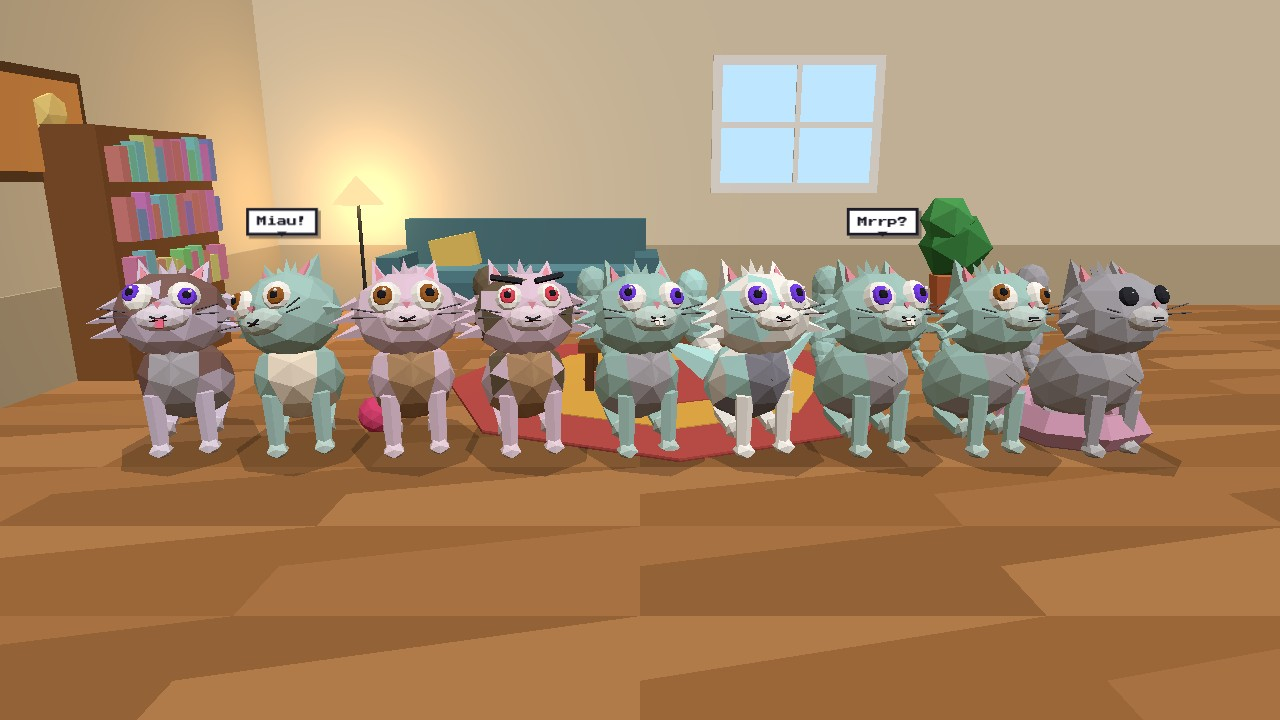
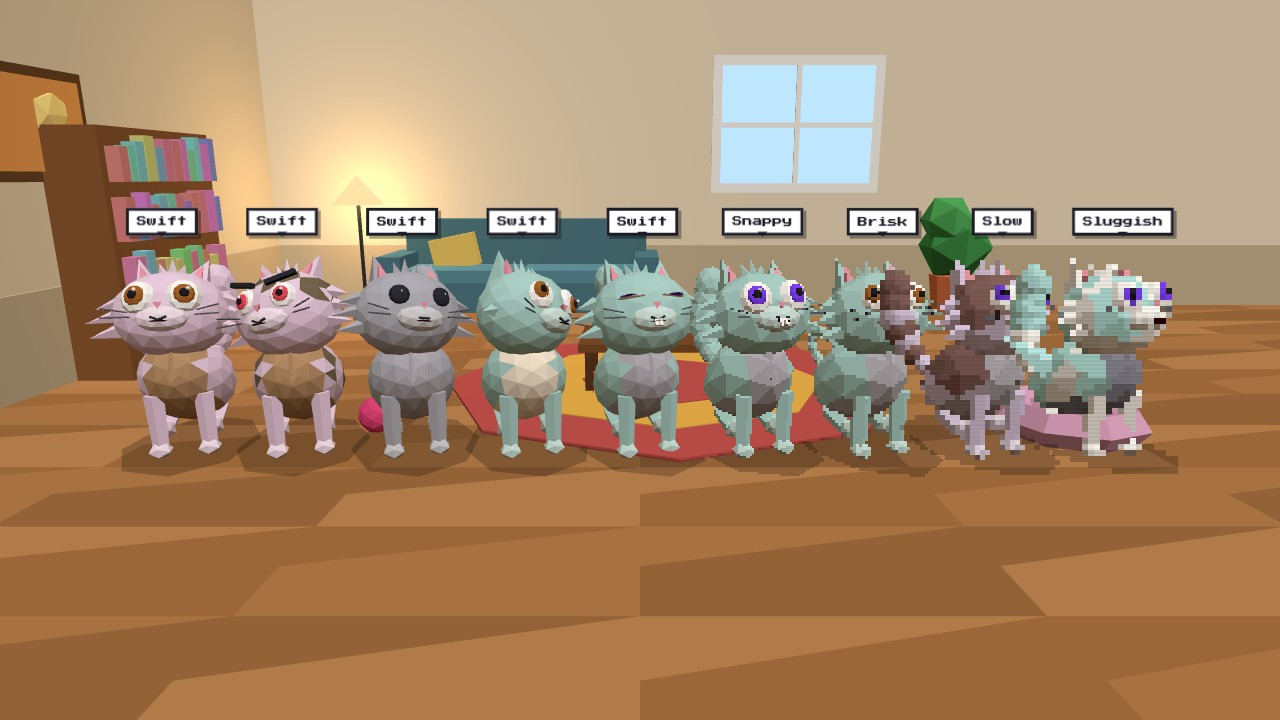
Render each kitty by its breeding cooldown
Fast-cooldown kitties render at native resolution with MSAA and smoother
geometry. Slower tiers render into 1/N low-res targets (2x..8x) composited
through a glitch shader (tearing, RGB split, flicker, scanlines), walk
slower, and animate in stop-motion. A depth-only scene pass per tier keeps
furniture occlusion. The scene now renders at full resolution, so the
Pixels toggle is gone. README documents the cooldown settings.

diff --git a/src/main.js b/src/main.js
@@ -11,11 +11,16 @@ const store = {
   set(k, v) { try { localStorage.setItem(k, v); } catch { /* private mode */ } },
 };
 
-// --- renderer: drawn at 1/pixel resolution and upscaled for the retro look --
+// --- renderer --------------------------------------------------------------
+// The scene and fast kitties are drawn at full resolution. Slower kitties
+// (by CryptoKitties cooldown) are drawn into low-res targets, one per pixel
+// size, and composited on top with a glitch shader. Each target first gets a
+// depth-only pass of the scene so furniture still hides cats behind it.
 
 const canvas = $('#view');
-const renderer = new THREE.WebGLRenderer({ canvas, antialias: false });
-renderer.setPixelRatio(1);
+const renderer = new THREE.WebGLRenderer({ canvas, antialias: true });
+renderer.setPixelRatio(Math.min(devicePixelRatio, 2));
+renderer.autoClear = false;
 const scene = new THREE.Scene();
 const camera = new THREE.PerspectiveCamera(50, 1, 0.1, 200);
 const controls = new OrbitControls(camera, canvas);
@@ -24,14 +29,92 @@ controls.maxPolarAngle = Math.PI * 0.47;
 controls.minDistance = 3;
 controls.maxDistance = 30;
 
-let pixel = Number(store.get('pixel')) || 3;
+const tierTargets = new Map(); // pixel size -> WebGLRenderTarget
+const tierSize = (px) => [Math.max(1, Math.floor(innerWidth / px)), Math.max(1, Math.floor(innerHeight / px))];
+function tierTarget(px) {
+  if (!tierTargets.has(px)) {
+    tierTargets.set(px, new THREE.WebGLRenderTarget(...tierSize(px), {
+      minFilter: THREE.NearestFilter, magFilter: THREE.NearestFilter,
+    }));
+  }
+  return tierTargets.get(px);
+}
+
 function resize() {
-  renderer.setSize(Math.max(1, Math.floor(innerWidth / pixel)), Math.max(1, Math.floor(innerHeight / pixel)), false);
+  renderer.setSize(innerWidth, innerHeight, false);
   camera.aspect = innerWidth / innerHeight;
   camera.updateProjectionMatrix();
+  for (const [px, rt] of tierTargets) rt.setSize(...tierSize(px));
 }
 addEventListener('resize', resize);
 resize();
+
+const glitchMat = new THREE.ShaderMaterial({
+  uniforms: { map: { value: null }, time: { value: 0 }, glitch: { value: 0 }, res: { value: new THREE.Vector2() } },
+  vertexShader: 'varying vec2 vUv; void main() { vUv = uv; gl_Position = vec4(position.xy, 0.0, 1.0); }',
+  fragmentShader: `
+    uniform sampler2D map; uniform float time, glitch; uniform vec2 res; varying vec2 vUv;
+    float h(float n) { return fract(sin(n) * 43758.5453); }
+    void main() {
+      vec2 uv = vUv;
+      float tick = floor(time * 12.0);
+      // short glitch bursts, more frequent the slower the cooldown
+      float burst = step(1.0 - glitch * 0.22, h(tick * 0.71));
+      float band = floor(uv.y * res.y / 3.0);
+      float tear = burst * step(0.6, h(tick * 1.7 + band * 0.13));
+      uv.x += (h(band + tick) - 0.5) * 0.04 * glitch * tear;
+      float off = burst * glitch * (1.0 + h(tick)) / res.x;
+      vec4 c = texture2D(map, uv);
+      vec4 r = texture2D(map, uv + vec2(off, 0.0));
+      vec4 b = texture2D(map, uv - vec2(off, 0.0));
+      c.r = mix(c.r, r.r, burst); c.b = mix(c.b, b.b, burst);
+      c.a = max(c.a, max(r.a, b.a) * burst);
+      c.a *= 1.0 - burst * 0.4 * step(0.7, h(tick * 3.1));
+      c.rgb *= 1.0 - glitch * 0.15 * mod(floor(gl_FragCoord.y / 2.0), 2.0);
+      gl_FragColor = c;
+      #include <colorspace_fragment>
+    }`,
+  transparent: true, depthTest: false, depthWrite: false,
+});
+const quadScene = new THREE.Scene();
+quadScene.add(new THREE.Mesh(new THREE.PlaneGeometry(2, 2), glitchMat));
+const quadCam = new THREE.OrthographicCamera(-1, 1, 1, -1, 0, 1);
+const depthOnly = new THREE.MeshBasicMaterial({ colorWrite: false });
+
+function render(t) {
+  // scene + fast kitties (layer 1), straight to the canvas
+  renderer.setRenderTarget(null);
+  renderer.clear();
+  camera.layers.set(0);
+  camera.layers.enable(1);
+  renderer.render(scene, camera);
+
+  const bg = scene.background;
+  scene.background = null;
+  const tiers = new Map();
+  for (const k of world.kitties) if (k.cd.px > 1) tiers.set(k.cd.px, Math.max(tiers.get(k.cd.px) || 0, k.cd.glitch));
+  for (const [px, glitch] of [...tiers].sort((a, b) => a[0] - b[0])) {
+    const rt = tierTarget(px);
+    renderer.setRenderTarget(rt);
+    renderer.setClearColor(0x000000, 0);
+    renderer.clear();
+    scene.overrideMaterial = depthOnly;
+    camera.layers.set(0);
+    renderer.render(scene, camera);
+    scene.overrideMaterial = null;
+    camera.layers.set(px);
+    renderer.render(scene, camera);
+
+    renderer.setRenderTarget(null);
+    glitchMat.uniforms.map.value = rt.texture;
+    glitchMat.uniforms.glitch.value = glitch;
+    glitchMat.uniforms.time.value = t;
+    glitchMat.uniforms.res.value.set(rt.width, rt.height);
+    renderer.render(quadScene, quadCam);
+  }
+  scene.background = bg;
+  camera.layers.set(0);
+}
 
 // --- world -----------------------------------------------------------------
 
@@ -98,6 +181,7 @@ function setScene(key) {
   }
   const env = SCENES[key].build();
   world.env = env;
+  env.group.traverse((o) => o.isLight && o.layers.enableAll());
   scene.add(env.group);
   scene.background = new THREE.Color(env.bg);
   scene.fog = env.fog ? new THREE.Fog(...env.fog) : null;
@@ -127,11 +211,9 @@ for (const [key, s] of Object.entries(SCENES)) {
 
 function syncToggles() {
   $('#sound').textContent = audio.enabled ? 'Sound: on' : 'Sound: off';
-  $('#pixel').textContent = `Pixels: ${pixel}x`;
   $('#names').textContent = labels.classList.contains('hide-names') ? 'Names: off' : 'Names: on';
 }
 $('#sound').onclick = () => { audio.enabled = !audio.enabled; store.set('sound', audio.enabled ? '1' : '0'); syncToggles(); };
-$('#pixel').onclick = () => { pixel = (pixel % 4) + 1; store.set('pixel', pixel); resize(); syncToggles(); };
 $('#names').onclick = () => { labels.classList.toggle('hide-names'); syncToggles(); };
 audio.enabled = store.get('sound') !== '0';
 syncToggles();
@@ -169,8 +251,8 @@ function addKitty(data) {
   info.innerHTML = '<b></b><small></small>';
   info.querySelector('b').textContent = data.name;
   info.querySelector('small').textContent = data.fancy
-    ? `#${data.id} · fancy · gen ${data.generation}`
-    : `#${data.id} · ${t.body || '?'} · ${t.pattern || '?'} · ${t.eyes || '?'}`;
+    ? `#${data.id} · ${k.cd.name} · fancy · gen ${data.generation}`
+    : `#${data.id} · ${k.cd.name} · ${t.body || '?'} · ${t.pattern || '?'} · ${t.eyes || '?'}`;
   li.append(img, info);
   li.onclick = () => {
     controls.target.set(k.root.position.x, 0.6, k.root.position.z);
@@ -241,6 +323,7 @@ window.ethereum?.on?.('accountsChanged', (accts) => setAccount(accts[0]));
 
 // click a kitty to make it meow (ignore drags)
 const ray = new THREE.Raycaster();
+ray.layers.enableAll(); // kitties live on per-cooldown layers
 let down = null;
 canvas.addEventListener('pointerdown', (e) => (down = [e.clientX, e.clientY]));
 canvas.addEventListener('pointerup', (e) => {
@@ -262,7 +345,7 @@ function frame() {
   for (const k of world.kitties) k.update(dt, world);
   world.resolve();
   controls.update();
-  renderer.render(scene, camera);
+  render(t);
 
   for (const k of world.kitties) {
     k.head.getWorldPosition(v);

diff --git a/src/cat.js b/src/cat.js
@@ -28,6 +28,27 @@ const EYES = {
 const WHITE = new THREE.Color('#ffffff');
 const DARK = '#2b2c36';
 const PINK = '#f29cb1';
+// CryptoKitties cooldown_index 0..13 -> how the cat is drawn and moves.
+// Fast cats get full resolution + smooth geometry; slow ones get chunky pixels,
+// glitches, slower walking and stop-motion animation.
+const COOLDOWNS = ['Fast', 'Swift', 'Swift', 'Snappy', 'Snappy', 'Brisk', 'Brisk',
+  'Plodding', 'Plodding', 'Slow', 'Slow', 'Sluggish', 'Sluggish', 'Catatonic'];
+const PIXELS = [1, 1, 1, 2, 2, 3, 3, 4, 4, 5, 5, 6, 6, 8];
+
+export function cooldownProfile(index) {
+  const i = Math.max(0, Math.min(13, index | 0));
+  const slow = i / 13;
+  return {
+    index: i,
+    name: COOLDOWNS[i],
+    px: PIXELS[i], // also the render layer the cat lives on
+    glitch: i < 7 ? 0 : (i - 6) / 7,
+    tempo: 1 - slow * 0.6, // walking speed multiplier
+    stepDt: i < 3 ? 0 : 1 / (30 - (i - 3) * 2.4), // stop-motion: 30 fps down to ~6 fps
+    detail: i < 3 ? 2 : 1, // icosphere subdivisions for body and head
+  };
+}
+
 const SAYINGS = ['Miau!', 'Miaau~', 'Mrrp?', 'Meow!', 'Nyaa~', 'Mew!', 'Mrrrow', 'Miau miau'];
 
 function patternKind(name) {
@@ -74,7 +95,7 @@ function buildLeg(parent, x, y, z, P) {
   return pivot;
 }
 
-function buildModel(t, R) {
+function buildModel(t, R, detail) {
   const P = colorFor(t.colorprimary, 'primary');
   const S = colorFor(t.colorsecondary, 'secondary');
   const T = colorFor(t.colortertiary, 'tertiary');
@@ -94,7 +115,7 @@ function buildModel(t, R) {
 
   // body: belly/chest in tertiary, pattern on the rest
   const bs = new THREE.Vector3(0.85, 0.8, 1.2);
-  const bodyGeo = painted(new THREE.IcosahedronGeometry(0.4, 1).scale(bs.x, bs.y, bs.z), (m) => {
+  const bodyGeo = painted(new THREE.IcosahedronGeometry(0.4, detail).scale(bs.x, bs.y, bs.z), (m) => {
     const d = m.clone().divide(bs).normalize();
     if ((d.z > 0.45 && d.y < 0.55 && Math.abs(d.x) < 0.55) || d.y < -0.6) return T;
     return pattern(d, 'body');
@@ -109,7 +130,7 @@ function buildModel(t, R) {
   torso.add(head);
   const hs = new THREE.Vector3(1.12, 0.92, 0.95);
   head.add(new THREE.Mesh(
-    painted(new THREE.IcosahedronGeometry(0.36, 1).scale(hs.x, hs.y, hs.z), (m) => pattern(m.clone().divide(hs).normalize(), 'head')),
+    painted(new THREE.IcosahedronGeometry(0.36, detail).scale(hs.x, hs.y, hs.z), (m) => pattern(m.clone().divide(hs).normalize(), 'head')),
     skin));
   put(head, new THREE.IcosahedronGeometry(0.12, 1).scale(1.5, 0.85, 0.8), P.clone().lerp(WHITE, 0.35), 0, -0.12, 0.27);
 
@@ -247,7 +268,10 @@ export class Kitty {
   constructor(data) {
     this.data = data;
     const R = rng(data.id * 2654435761);
-    Object.assign(this, buildModel(data.traits, R));
+    this.cd = cooldownProfile(data.cooldown);
+    Object.assign(this, buildModel(data.traits, R, this.cd.detail));
+    this.root.traverse((o) => o.layers.set(this.cd.px));
+    this.acc = 0;
     this.root.traverse((o) => (o.userData.kitty = this));
     // each kitty has its own handful of recordings and a slight pitch offset
     const first = Math.floor(R() * 12);
@@ -308,7 +332,7 @@ export class Kitty {
     switch (state) {
       case 'walk':
       case 'zoomies': {
-        this.speed = state === 'zoomies' ? 2.3 : 0.6 + Math.random() * 0.3;
+        this.speed = (state === 'zoomies' ? 2.3 : 0.6 + Math.random() * 0.3) * this.cd.tempo;
         this.target = world.randomSpot();
         const p = this.root.position;
         this.timer = state === 'zoomies' ? 4 + Math.random() * 3
@@ -350,6 +374,11 @@ export class Kitty {
   }
 
   update(dt, world) {
+    // slow cats only advance in coarse steps, which reads as choppy motion
+    this.acc += dt;
+    if (this.acc < this.cd.stepDt) return;
+    dt = this.acc;
+    this.acc = 0;
     this.t += dt;
     this.timer -= dt;
     if (this.timer <= 0) this.nextState(world);

diff --git a/index.html b/index.html
@@ -17,7 +17,7 @@
     }
     * { box-sizing: border-box; }
     html, body { margin: 0; height: 100%; overflow: hidden; background: #1d1b26; color: var(--ink); font: 14px/1.4 system-ui, sans-serif; }
-    #view { position: fixed; inset: 0; width: 100%; height: 100%; image-rendering: pixelated; display: block; touch-action: none; }
+    #view { position: fixed; inset: 0; width: 100%; height: 100%; display: block; touch-action: none; }
     #labels { position: fixed; inset: 0; pointer-events: none; overflow: hidden; }
     .tag { position: absolute; left: 0; top: 0; display: flex; flex-direction: column; align-items: center; gap: 4px; will-change: transform; }
     .tag .name { font: 8px var(--pixel); color: #fff; text-shadow: 1px 1px 0 #000, -1px -1px 0 #000, 1px -1px 0 #000, -1px 1px 0 #000; white-space: nowrap; }
@@ -80,11 +80,10 @@
     <div id="scenes" class="row"></div>
     <div class="row">
       <button id="sound" type="button"></button>
-      <button id="pixel" type="button"></button>
       <button id="names" type="button"></button>
     </div>
     <div id="status"></div>
-    <div class="hint">Drag to orbit · scroll to zoom · click a kitty to make it meow</div>
+    <div class="hint">Drag to orbit · scroll to zoom · click a kitty to make it meow<br>Fast-cooldown kitties render crisp; slow ones get pixelated, glitchy and sluggish.</div>
   </div>
   <ul id="roster" class="panel"></ul>
   <footer>

diff --git a/src/api.js b/src/api.js
@@ -22,6 +22,7 @@ function normalize(k) {
     traits,
     image: k.image_url_png || k.image_url,
     generation: k.generation,
+    cooldown: k.status?.cooldown_index ?? 0,
     color: k.color,
   };
 }

diff --git a/README.md b/README.md
@@ -2,7 +2,7 @@
 
 # 🐾 Kitty Habitat
 
-**Your CryptoKitties, alive in retro low-poly 3D.**
+**Your CryptoKitties, alive in low-poly 3D. Fast cats crisp, slow cats glitched.**
 
 Connect your wallet and every kitty you own moves into a little world of its own:
 it walks around, sits, naps, gets the zoomies and meows with real cat voices.
@@ -27,15 +27,36 @@ it walks around, sits, naps, gets the zoomies and meows with real cat voices.
 - **They behave like cats.** They wander, avoid furniture and each other, sit, curl up to sleep (`zZz`), hop, and get the occasional zoomies.
 - **Real meows.** Each kitty has its own set of real cat recordings and its own pitch. Click a kitty, or its card in the roster, to make it meow, or to wake it up.
 - **Four scenes.** Home, office, garden and beach, each with props the cats walk around (sofa, desks, a pond they won't step into, sandcastles).
-- **Retro by design.** Flat-shaded low-poly, rendered at low resolution and upscaled pixel-perfect. Choose 1×–4× pixel size.
+- **Cooldown decides quality.** Fast kitties render crisp and smooth. Slow ones turn chunky, pixelated, glitchy and sluggish (see [Cooldown settings](#cooldown-settings)).
+
+## Cooldown settings
+
+Every CryptoKitty has an on-chain breeding cooldown (`cooldown_index`, 0–13). Kitty Habitat uses it to decide how each cat is drawn and how it moves. The fastest cats get the best quality. The slowest are rendered like a corrupted old video tape.
+
+![Kitties sorted by cooldown, from crisp to glitched](docs/lineup.jpg)
+
+<sub>Sorted fastest → slowest. The five Swift cats are full-resolution and anti-aliased, Snappy and Brisk start to go blocky, Slow and Sluggish are chunky pixels with glitch bursts.</sub>
+
+| Index | Cooldown | Pixel size | Glitch | Walk speed | Animation | Mesh detail |
+|---|---|---|---|---|---|---|
+| 0 | Fast | 1× (native, anti-aliased) | none | 100% | every frame | high |
+| 1–2 | Swift | 1× (native, anti-aliased) | none | 95–91% | every frame | high |
+| 3–4 | Snappy | 2× | none | 86–82% | 30 → 28 fps | low-poly |
+| 5–6 | Brisk | 3× | none | 77–72% | 25 → 23 fps | low-poly |
+| 7–8 | Plodding | 4× | 14–29% | 68–63% | 20 → 18 fps | low-poly |
+| 9–10 | Slow | 5× | 43–57% | 58–54% | 16 → 13 fps | low-poly |
+| 11–12 | Sluggish | 6× | 71–86% | 49–45% | 11 → 8 fps | low-poly |
+| 13 | Catatonic | 8× | 100% | 40% | 6 fps | low-poly |
+
+- **Pixel size**: the cat is rendered into an offscreen target at `1/N` of the screen resolution and scaled back up with nearest-neighbour filtering. The scene itself is always full resolution.
+- **Glitch**: random bursts of horizontal tearing, red/blue channel split and flicker, plus constant scanlines. Higher glitch means more frequent and stronger bursts.
+- **Walk speed / animation**: slow cats walk slower, and their whole update (position, legs, tail, blinking) only advances a few times per second, which reads as choppy stop-motion.
+- Occlusion still works: each pixel tier first renders a depth-only copy of the scene, so the sofa still hides a glitchy cat behind it.
+- Tuning lives in `cooldownProfile()` in [`src/cat.js`](src/cat.js) (`PIXELS`, glitch, tempo, stepDt, detail).
 
 ## Your traits, in 3D
 
 Each cattribute maps to something on the model:
-
-![Nine kitties built from their own traits](docs/lineup.jpg)
-
-<sub>Left to right: Fuku Bluntnano (cymric · calicool · crazy eyes · tongue), #377769 (ragdoll · curly tail), #372075 (cymric · googly), #369860 (laperm · luckystripe · thicccbrowz), #353297 (ragamuffin · gerbil teeth), DuCat (fancy, with wings), #326465, #169128 (himalayan · curly tail), #45657 (simple eyes).</sub>
 
 | Trait | What it changes |
 |---|---|
@@ -72,7 +93,9 @@ cat.js  traits ─► low-poly model (body, head, ears, eyes, mouth, legs, tail 
    ▼
 scene.js  floor bounds + furniture boxes ─► walking, collision, state machine
    ▼
-three.js at 1/N resolution ─► CSS `image-rendering: pixelated`
+renderer  scene + fast kitties at full resolution (MSAA)
+          per cooldown tier: depth-only scene + tier's kitties → 1/N render target
+          └─ composited on top through the glitch shader
 ```
 
 - **Why the API and not the contract?** `KittyCore.tokensOfOwner()` loops over all ~2M kitties and runs out of gas on public RPCs, and CryptoKitties' `Transfer` event has no indexed fields to filter on. The public CryptoKitties API answers in one request and needs no key.
@@ -98,8 +121,8 @@ Production is GitHub Pages serving the `main` branch over HTTPS, with no CI buil
 | Path | What |
 |---|---|
 | `index.html` | Page, HUD, styles, import map (three.js from jsDelivr) |
-| `src/main.js` | Renderer, wallet connection, world loop, collisions, labels |
-| `src/cat.js` | Trait → 3D model, and the walk / sit / sleep / hop / zoomies / meow behavior |
+| `src/main.js` | Tiered renderer and glitch shader, wallet connection, world loop, collisions, labels |
+| `src/cat.js` | Trait → 3D model, cooldown profiles, and the walk / sit / sleep / hop / zoomies / meow behavior |
 | `src/scenes.js` | Home, office, garden and beach, plus their obstacles |
 | `src/colors.js` | CryptoKitties color gene → hex |
 | `src/api.js` | CryptoKitties API client, palette sampling for fancy cats |
